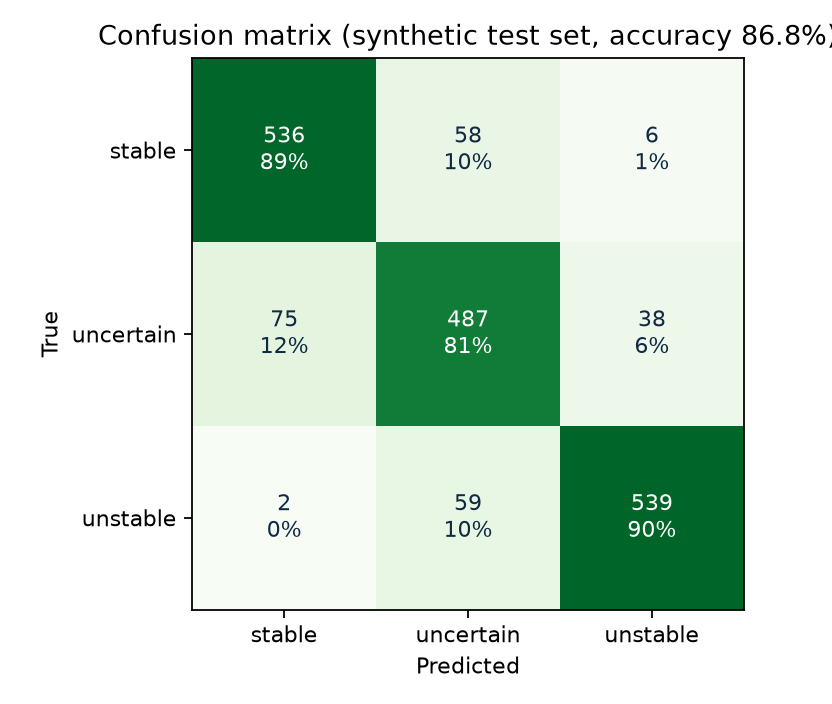
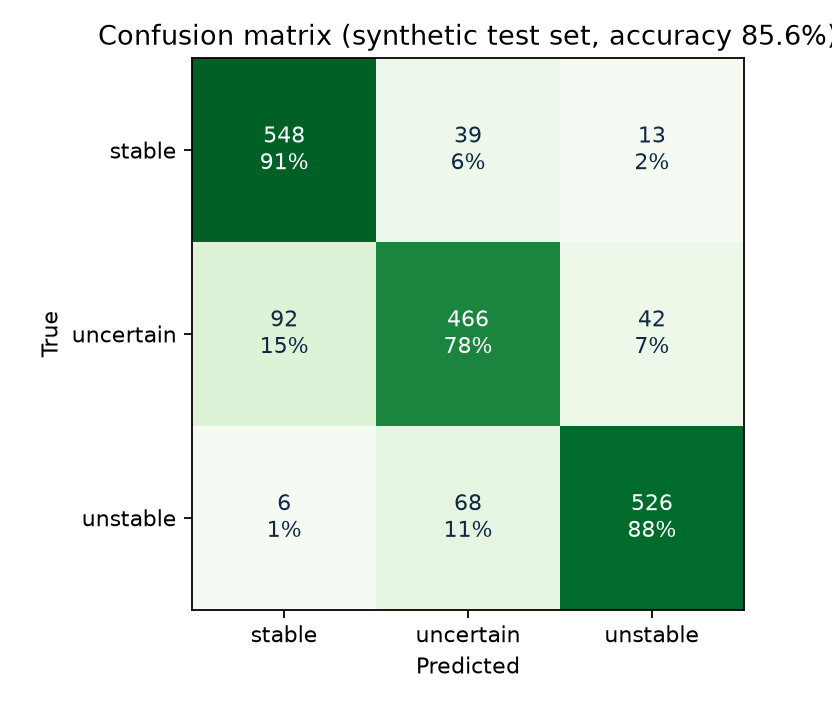
Make classifier less sensitive to fast normal movement: fast flicks + overshoots in synthetic data, straightness/wobble/travel features, smoothed live probabilities

diff --git a/content/features.js b/content/features.js
@@ -13,11 +13,15 @@
 //        reversals    sign flips of vx / vy, ignoring slow speeds
 //        hf_ratio     share of velocity power in the 4-12 Hz tremor band
 //        band_amp     log(1 + sqrt(band power)): how STRONG the 4-12 Hz movement is
+//        straightness net distance / (path length + 1 px): flick ~1, shake ~0
+//        wobble       band_amp * (1 - straightness)
+//        travel       mean_speed * straightness
 
 (() => {
   const SM = (window.SmoothMouse = window.SmoothMouse || {});
 
-  const FEATURE_NAMES = ["mean_speed", "speed_var", "accel_var", "jerk_rms", "reversals", "hf_ratio", "band_amp"];
+  const FEATURE_NAMES = ["mean_speed", "speed_var", "accel_var", "jerk_rms", "reversals", "hf_ratio", "band_amp",
+    "straightness", "wobble", "travel"];
 
   function windowSamples(cfg) {
     // Python: int(round(windowMs * rate / 1000)). Our values are never x.5, so Math.round matches.
@@ -150,7 +154,18 @@
     const hfRatio = total > 1e-9 ? (bx + by) / total : 0;
     const bandAmp = Math.log1p(Math.sqrt(bx + by));
 
-    return [meanSpeed, speedVar, accelVar, jerkRms, reversals, hfRatio, bandAmp];
+    // Path length (sum of steps, added in order like Python) vs start-to-end distance.
+    let path = 0;
+    for (let i = 1; i < xr.length; i++) {
+      const dx = xr[i] - xr[i - 1], dy = yr[i] - yr[i - 1];
+      path += Math.sqrt(dx * dx + dy * dy);
+    }
+    const ex = xr[xr.length - 1] - xr[0], ey = yr[yr.length - 1] - yr[0];
+    const straightness = Math.sqrt(ex * ex + ey * ey) / (path + 1);
+    const wobble = bandAmp * (1 - straightness);
+    const travel = meanSpeed * straightness;
+
+    return [meanSpeed, speedVar, accelVar, jerkRms, reversals, hfRatio, bandAmp, straightness, wobble, travel];
   }
 
   /** Raw samples (t in ms, x, y in px) -> feature array, ordered like FEATURE_NAMES. */

diff --git a/content/live.js b/content/live.js
@@ -13,7 +13,8 @@
   const live = (SM.live = {
     ready: false,
     label: "stable",
-    probs: { stable: 1, uncertain: 0, unstable: 0 },
+    probs: { stable: 1, uncertain: 0, unstable: 0 },    // smoothed (what everything uses)
+    rawProbs: { stable: 1, uncertain: 0, unstable: 0 }, // this window only
     features: null,
     updatedAt: 0,
     model: null,
@@ -24,6 +25,11 @@
       return () => this.listeners.delete(fn);
     },
   });
+
+  // Each new window gets this much weight; the rest comes from earlier windows.
+  // 0.4 means one odd 50 ms window can't flip the label on its own, while a
+  // real, sustained shake still takes over within ~100-150 ms.
+  const SMOOTHING = 0.4;
 
   async function loadBaseModel() {
     // TODO (Checkpoint 5): prefer the personal model saved in storage.local.
@@ -51,8 +57,15 @@
       now,
       cfg
     );
-    const { label, probs } = SM.model.predict(live.model, features);
-    Object.assign(live, { label, probs, features, updatedAt: now });
+    const raw = SM.model.predict(live.model, features).probs;
+
+    const probs = {};
+    let label = "stable";
+    for (const c of live.model.classes) {
+      probs[c] = SMOOTHING * raw[c] + (1 - SMOOTHING) * (live.probs[c] ?? 0);
+      if (probs[c] > (probs[label] ?? -1)) label = c;
+    }
+    Object.assign(live, { label, probs, rawProbs: raw, features, updatedAt: now });
 
     for (const fn of live.listeners) {
       try { fn(live); } catch (err) { console.error("[Smooth Mouse]", err); }

diff --git a/ml/synth.py b/ml/synth.py
@@ -46,11 +46,16 @@ def min_jerk(s):
 def make_reach(rng, span_s, start=None):
     """One point-to-point reach (like moving to a button), slightly curved."""
     p0 = rng.uniform([100, 100], [1200, 700]) if start is None else start
-    dist = np.exp(rng.uniform(np.log(15), np.log(900)))  # many short + some long
+    dist = np.exp(rng.uniform(np.log(15), np.log(1400)))  # many short + some long
     angle = rng.uniform(0, 2 * np.pi)
     direction = np.array([np.cos(angle), np.sin(angle)])
     normal = np.array([-direction[1], direction[0]])
-    duration = rng.uniform(0.18, 0.9) * (dist / 300) ** 0.25  # longer reaches take a bit longer
+    # Pick the PEAK SPEED first: real people flick the mouse at up to several
+    # thousand px/s (we measured 3,000+ in a real recording). A minimum-jerk
+    # reach peaks at 1.875 * dist / duration. Without fast flicks in the
+    # training data, the model called normal fast movement "unstable".
+    peak_speed = np.exp(rng.uniform(np.log(80), np.log(9000)))
+    duration = float(np.clip(1.875 * dist / peak_speed, 0.08, 1.5))
     onset = rng.uniform(-duration, span_s)  # window may catch any phase of the reach
     curve = rng.normal(0, 0.08) * dist
 
@@ -65,13 +70,16 @@ def make_reach(rng, span_s, start=None):
 
 
 def make_reach_with_correction(rng, span_s):
-    """A reach followed by a small corrective sub-movement (very common in real use)."""
+    """A reach followed by a corrective sub-movement (very common in real use).
+
+    Fast reaches often overshoot and come back a little, so the correction
+    can point back the way we came. It may overlap the end of the reach.
+    """
     first, end_time = make_reach(rng, span_s)
-    # A 3-15 px correction starting just after the main reach ends.
-    scale = rng.uniform(3, 15)
+    scale = rng.uniform(3, 40)
     angle = rng.uniform(0, 2 * np.pi)
-    c_dur = rng.uniform(0.12, 0.3)
-    c_onset = end_time + rng.uniform(0.0, 0.15)
+    c_dur = rng.uniform(0.1, 0.3)
+    c_onset = end_time + rng.uniform(-0.08, 0.15)
 
     def f(t):
         x, y = first(t)
@@ -170,7 +178,10 @@ def sample_like_browser(rng, f, span_ms, noise_px):
     dup = rng.random(len(t)) < 0.01
     t[1:][dup[1:]] = t[:-1][dup[1:]]
 
-    x, y = f(t / 1000.0)
+    # Reported timestamps are rounded and a little off from when the position
+    # was really measured; that adds realistic velocity noise during fast moves.
+    true_t = t + rng.uniform(-1.5, 1.5, len(t))
+    x, y = f(true_t / 1000.0)
     x = x + rng.normal(0, noise_px, len(t))
     y = y + rng.normal(0, noise_px, len(t))
     x, y = np.round(x * 2) / 2, np.round(y * 2) / 2  # 0.5 px steps

diff --git a/ml/features.py b/ml/features.py
@@ -24,6 +24,15 @@ Pipeline for one window:
      -> band_amp       log(1 + sqrt(velocity power inside the tremor band)):
                        HOW STRONG the 4-12 Hz movement is. hf_ratio alone can't
                        tell a 1 px wobble from a 15 px shake; this can.
+     -> straightness   net distance / (path length + 1 px). A deliberate flick
+                       goes one way (close to 1); a shake goes back and forth and
+                       ends up near where it started (close to 0). This is what
+                       stops fast, normal movement from looking "unstable".
+     -> wobble         band_amp * (1 - straightness): tremor-band energy that
+                       goes back and forth without getting anywhere
+     -> travel         mean_speed * straightness: speed that is heading somewhere
+                       (These two "combined" features let a simple linear model
+                       learn "fast AND straight = intentional".)
 
 Why log(1 + ...)? Speeds and variances range over several orders of magnitude
 (a still cursor vs a fast flick). Logs squash that range so a linear model can
@@ -46,6 +55,9 @@ FEATURE_NAMES = [
     "reversals",
     "hf_ratio",
     "band_amp",
+    "straightness",
+    "wobble",
+    "travel",
 ]
 
 
@@ -153,7 +165,21 @@ def compute_features(xr, yr, cfg):
     hf_ratio = (bx + by) / total if total > 1e-9 else 0.0
     band_amp = np.log1p(np.sqrt(bx + by))
 
-    return np.array([mean_speed, speed_var, accel_var, jerk_rms, float(reversals), hf_ratio, band_amp])
+    # Path length = sum of the little steps; net = start-to-end distance.
+    # The +1 px keeps a still cursor (path ~ 0) well defined.
+    steps = np.sqrt(np.diff(xr) ** 2 + np.diff(yr) ** 2)
+    path = 0.0
+    for step in steps:  # plain loop so JS can add in exactly the same order
+        path += step
+    net = np.sqrt((xr[-1] - xr[0]) ** 2 + (yr[-1] - yr[0]) ** 2)
+    straightness = net / (path + 1.0)
+    wobble = band_amp * (1.0 - straightness)
+    travel = mean_speed * straightness
+
+    return np.array([
+        mean_speed, speed_var, accel_var, jerk_rms, float(reversals),
+        hf_ratio, band_amp, straightness, wobble, travel,
+    ])
 
 
 def window_features(t, x, y, t_end, cfg):

diff --git a/ml/train.py b/ml/train.py
@@ -143,7 +143,7 @@ def plot_confusion(cm, classes, acc):
 
 
 def plot_feature_distributions(X, y):
-    fig, axes = plt.subplots(2, 4, figsize=(15, 6.5))
+    fig, axes = plt.subplots(2, 5, figsize=(18, 6.5))
     for ax in axes.flat[len(FEATURE_NAMES):]:
         ax.axis("off")
     for k, ax in zip(range(len(FEATURE_NAMES)), axes.flat):

diff --git a/README.md b/README.md
@@ -101,21 +101,23 @@ python ml/train.py ~/Downloads/smooth-mouse-recording-*.json
 ```
 
 ### How it works
-1. **Synthetic data** (`synth.py`). `stable` = smooth minimum-jerk reaches, small corrections, holds and slow drags. `unstable` = the same plus a 4–10 Hz, 2–20 px oscillation. `uncertain` = very small oscillations (0.7–2 px) or fast intentional scribbles. Sampling copies a real Firefox recording: events every 7–10 ms, whole-ms timestamps, 0.5 px steps, no event when the cursor doesn't move.
+1. **Synthetic data** (`synth.py`). `stable` = smooth minimum-jerk reaches (from slow moves up to fast 9,000 px/s flicks), overshoot corrections, holds and slow drags. `unstable` = the same plus a 4–10 Hz, 2–20 px oscillation. `uncertain` = very small oscillations (0.7–2 px) or fast intentional scribbles. Sampling copies a real Firefox recording: events every 7–10 ms, whole-ms timestamps with ±1.5 ms jitter, 0.5 px steps, no event when the cursor doesn't move.
 2. **Windows** (`shared/config.json`). Each window is 400 ms, resampled to 100 Hz (40 points). Live, a new window is classified every 50 ms. We tried 250 ms first, but a 4 Hz tremor only completes one cycle in 250 ms, and accuracy was about 79% vs 88% at 400 ms.
-3. **Features** (`features.py`). Mean speed, speed variance, acceleration variance, jerk RMS (all log-scaled), direction reversals, the *share* of velocity power in the 4–12 Hz band (FFT), and the *strength* of that band (`band_amp`, so a 1 px wobble and a 15 px shake look different).
+3. **Features** (`features.py`). Mean speed, speed variance, acceleration variance, jerk RMS (all log-scaled), direction reversals, the *share* of velocity power in the 4–12 Hz band (FFT), the *strength* of that band (`band_amp`, so a 1 px wobble and a 15 px shake look different), `straightness` (net distance ÷ path length: a flick ≈ 1, a shake ≈ 0), and two combined features, `wobble` = band strength × (1 − straightness) and `travel` = speed × straightness, which let a linear model learn "fast **and** straight = intentional".
 4. **Model** (`train.py`). `StandardScaler` + multinomial `LogisticRegression`. It exports to about 30 numbers that JavaScript can run in a few lines.
 
 ### Results (synthetic test set, 1,800 windows)
 | | precision | recall |
 |---|---|---|
-| stable | 0.87 | 0.89 |
-| uncertain | 0.81 | 0.81 |
-| unstable | 0.93 | 0.90 |
+| stable | 0.85 | 0.91 |
+| uncertain | 0.81 | 0.78 |
+| unstable | 0.91 | 0.88 |
 
-**Accuracy: 86.8%** (decision tree for comparison: 87.8%). Most mistakes involve the borderline `uncertain` class, which only moves smoothing one step (light ↔ medium ↔ strong). Calm movement is called `unstable` 1% of the time, so the cursor shouldn't feel sluggish for steady hands.
+**Accuracy: 85.6%** (decision tree for comparison: 87.1%). Most mistakes involve the borderline `uncertain` class, which only moves smoothing one step (light ↔ medium ↔ strong). Calm movement (including fast flicks) is called `unstable` about 2% of the time, and live predictions are smoothed over a few windows so a single odd window can't flip the label.
 
 **A bug we caught (good story for judges):** our first synthetic `unstable` data also had extra random noise. The model scored 88%, but in a live test it called a smooth, real-looking 6 Hz shake `uncertain`: it had learned "noisy = unstable" instead of "oscillating = unstable." We gave every class the same noise, added the `band_amp` feature and a longer window, and now smooth shakes are caught. Lesson: a high test score on synthetic data can hide a shortcut, so test on realistic inputs too.
+
+**A second one, found by a real user:** normal, fast mouse movement showed as `unstable`. Our synthetic "calm" reaches maxed out around 1,500 px/s, but real flicks reach 3,000–9,000 px/s, and a fast flick has the same high acceleration as a shake. We added fast flicks and overshoots to the training data, plus the `straightness` / `wobble` / `travel` features. Now simulated 800 px flicks in 180 ms read `stable`, while 5–6 Hz shakes still read `unstable`.
 
 > **Honesty note:** these numbers are on *synthetic* data. They show the pipeline works, not that it generalizes to real tremors. That would need testing with real users.
 
